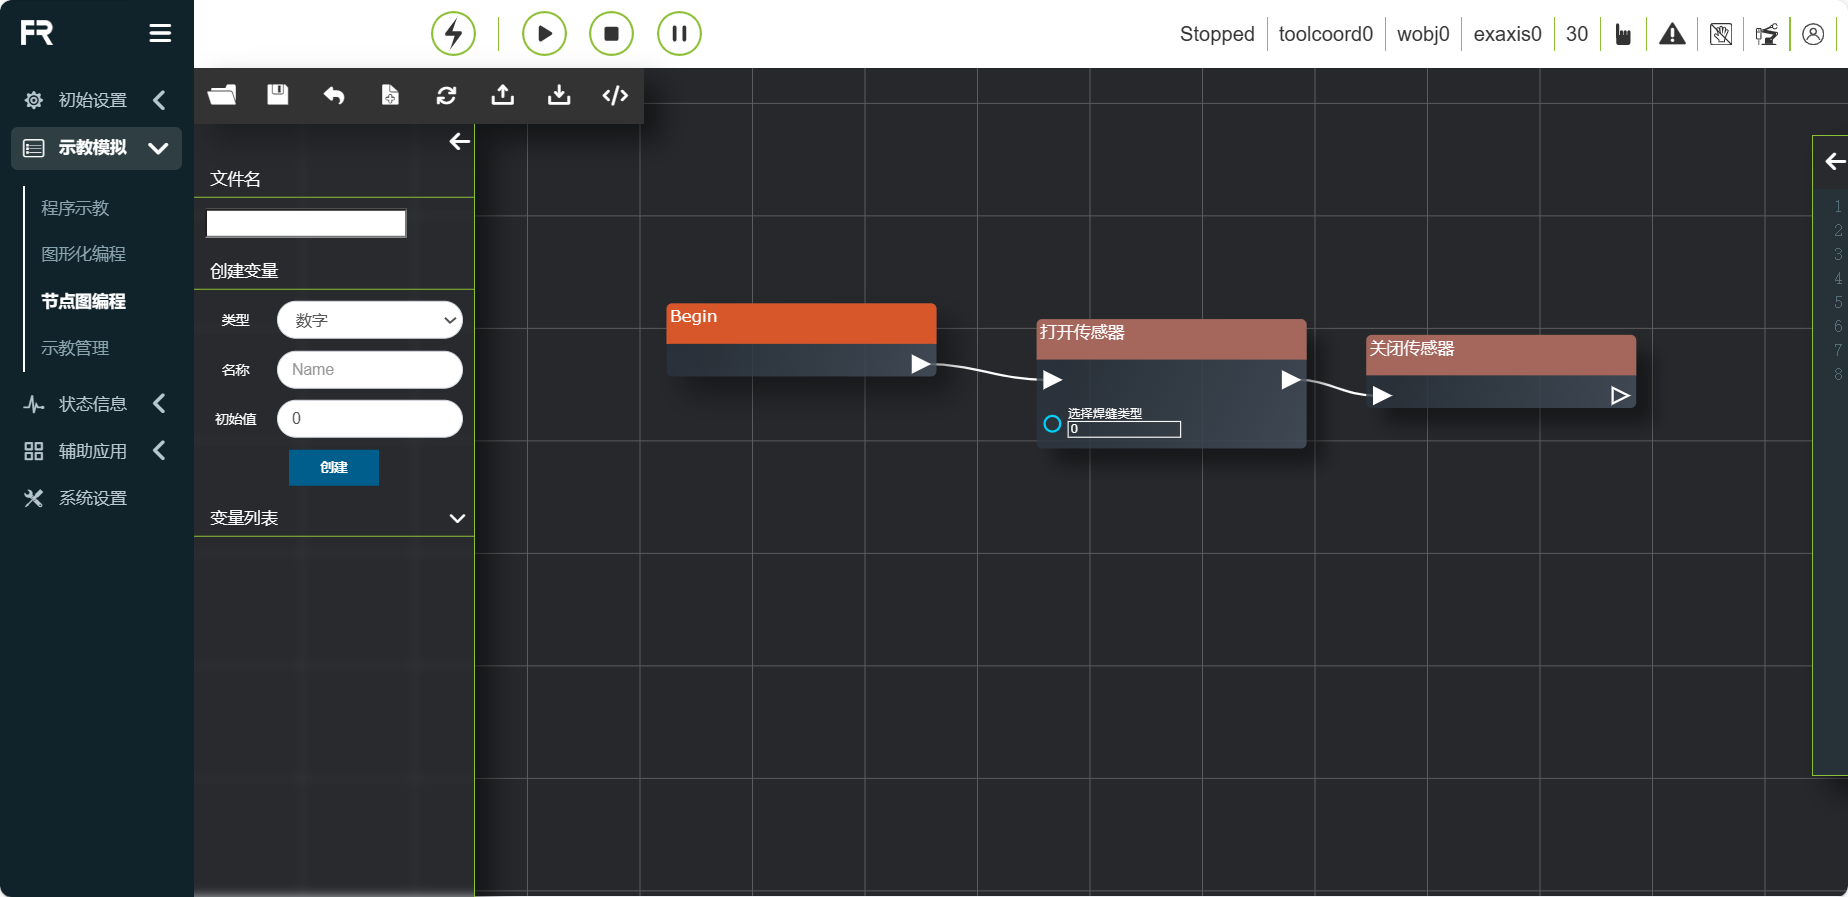
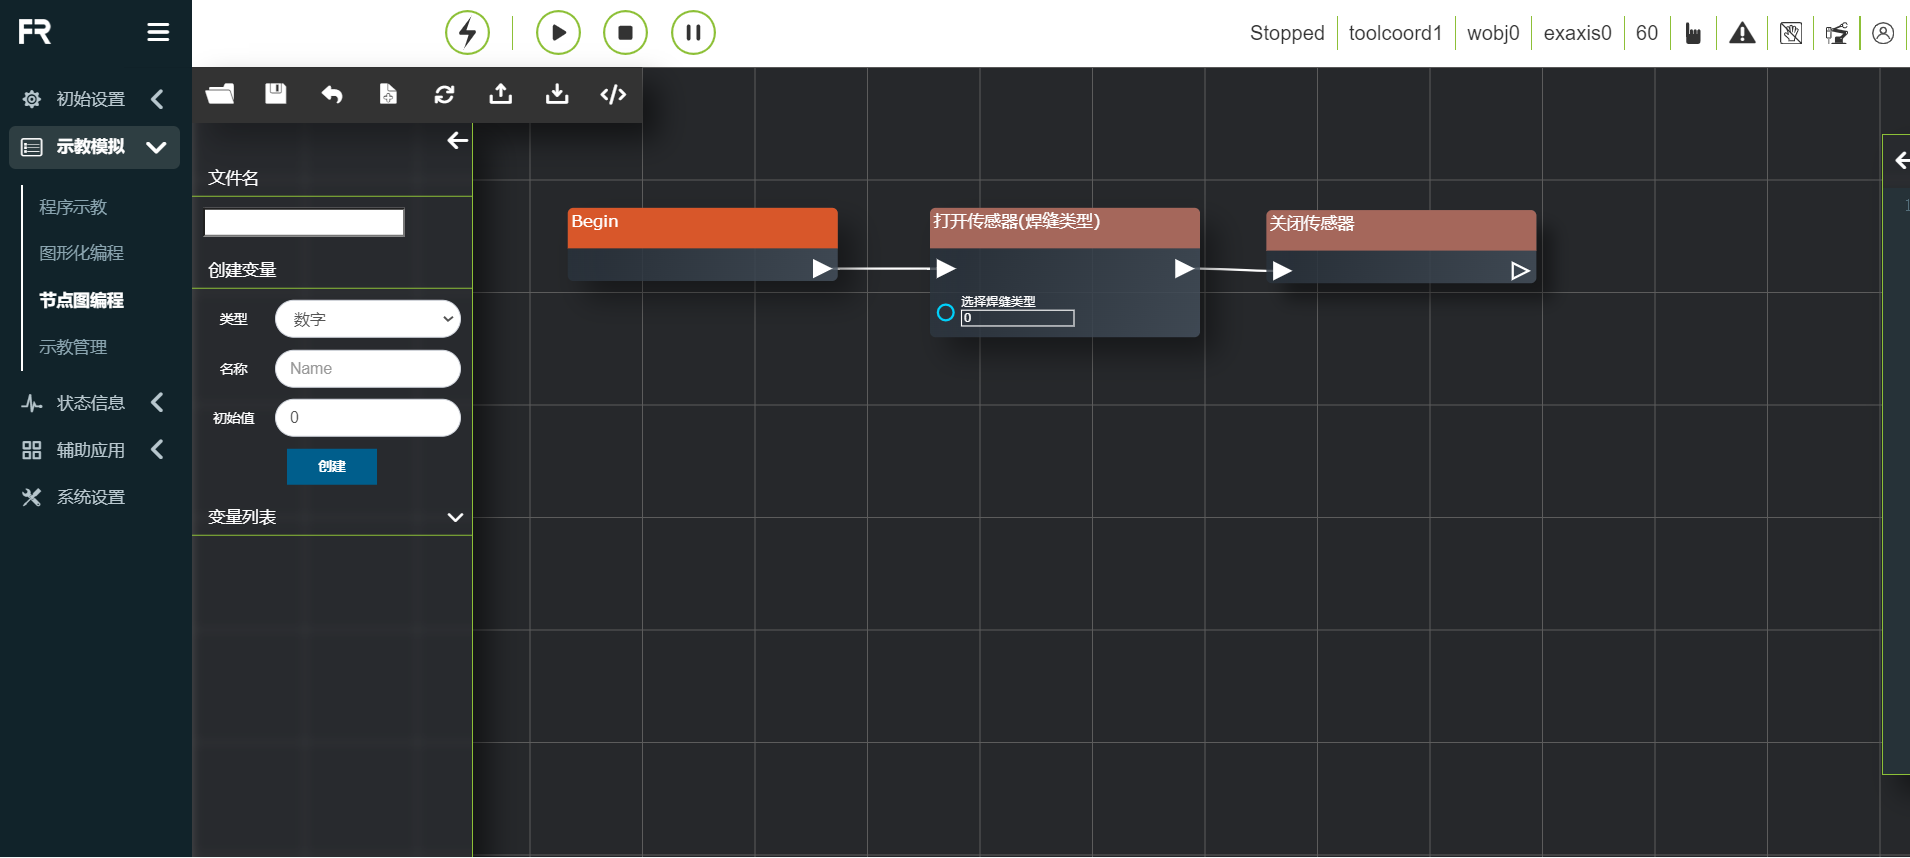
V3.7.0

diff --git a/source/CobotsManual/robot_peripherals.rst b/source/CobotsManual/robot_peripherals.rst
@@ -281,7 +281,11 @@
 传感器外设配置步骤
 ~~~~~~~~~~~~~~~~~~~~
 
-**Step1**：在用户外设配置界面中选择“传感器配置”按钮，本小节以机器人末端为例说明，用户首先对最大差值进行设置，传感器扫描偏差点数最大差值建议默认设置为4，数据处理根据实际使用场景选择原始数据或者YZ数据。控制器IP默认为192.168.57.2，传感器IP配置为同一网段即可，端口为5020，采样周期建议值25，通信协议目前适配为睿牛通信协议，加载对应协议即可。加载完成后，可通过“打开传感器”和“关闭传感器”按键测试传感器。
+**Step1**：在用户外设配置界面中选择“传感器配置”按钮，本小节以机器人末端为例说明。
+
+- 用户首先对最大差值进行设置，传感器扫描偏差点数最大差值建议默认设置为4，数据处理根据实际使用场景选择原始数据或者YZ数据。
+- 控制器IP默认为192.168.57.2，传感器IP配置为同一网段即可，端口为5020，采样周期建议值25，通信协议目前适配为睿牛、创想和全视的通信协议，加载对应协议即可。
+- 加载完成后，可通过“打开传感器”和“关闭传感器”按键测试传感器。
 
 .. figure:: robot_peripherals/011.png
    :align: center
@@ -295,7 +299,13 @@
 
 **Step2**：标定传感器参考点。
 
-在工具坐标系设置功能中，我们标定传感器类型工具，使用六点法配置传感器坐标系。在机器人工作空间中选择一个固定的点，将传感器中心点从三个不同的角度移至所选点上，分别设置点1，2，3。将传感器中心点垂直移至所选点正上方，记录点4。将传感器中心点由固定点移至传感器坐标系的X轴方向上一点，设置点5。回到固定点，垂直向上移动，将传感器中心点由固定点移至传感器坐标系的Z轴方向上一点，设置为点6。点击计算，得到传感器工具的位姿，点击应用，即可完成。
+在工具坐标系设置功能中，我们标定传感器类型工具，使用六点法配置传感器坐标系。
+
+- 在机器人工作空间中选择一个固定的点，将传感器中心点从三个不同的角度移至所选点上，分别设置点1，2，3。
+- 将传感器中心点垂直移至所选点正上方，记录点4。
+- 将传感器中心点由固定点移至传感器坐标系的X轴方向上一点，设置点5。
+- 回到固定点，垂直向上移动，将传感器中心点由固定点移至传感器坐标系的Z轴方向上一点，设置为点6。
+- 点击计算，得到传感器工具的位姿，点击应用，即可完成。如不想应用结果，点击“取消”按钮重新标定。
 
 .. figure:: robot_peripherals/012.png
    :align: center
@@ -303,7 +313,17 @@
 
 .. centered:: 图表 5.4‑2 参考点配置-六点法
 
-**八点法**：在工具坐标系设置功能中，我们标定传感器类型工具，使用八点法配置传感器坐标系，选择八点法，移动传感器激光线使其与标定板上的标定线重合，尽量使得传感器与标定线保持较近距离且识别到标定点，记录点1，移动-y/+y方向20mm左右,调整机器人使激光识别到标定点，记录点2，移动-x/+x方向20mm左右，调整机器人使激光识别到标定点，记录点3，移动-y/+y方向20mm左右，调整机器人使激光识别到标定点，记录点4，移动-rx方向5mm左右，调整机器人使激光识别到标定点，记录点5。移动-ry方向5mm左右，调整机器人使激光识别到标定点，记录点6，移动-rz方向5mm左右，调整机器人使传感器识别到标定点，记录点7，移动-rz方向5mm左右，调整机器人使激光识别到标定点，记录点8。点击计算，得到传感器位姿，点击应用，即可完成。
+**八点法**：在工具坐标系设置功能中，我们标定传感器类型工具，使用八点法配置传感器坐标系，选择八点法。
+
+- 移动传感器激光线使其与标定板上的标定线重合，尽量使得传感器与标定线保持较近距离且识别到标定点，记录点1；
+- 移动-y/+y方向20mm左右,调整机器人使激光识别到标定点，记录点2；
+- 移动-x/+x方向20mm左右，调整机器人使激光识别到标定点，记录点3；
+- 移动-y/+y方向20mm左右，调整机器人使激光识别到标定点，记录点4；
+- 移动-rx方向5mm左右，调整机器人使激光识别到标定点，记录点5；
+- 移动-ry方向5mm左右，调整机器人使激光识别到标定点，记录点6；
+- 移动-rz方向5mm左右，调整机器人使传感器识别到标定点，记录点7；
+- 移动-rz方向5mm左右，调整机器人使激光识别到标定点，记录点8；
+- 点击计算，得到传感器位姿，点击应用，即可完成。如不想应用结果，点击“取消”按钮重新标定。
 
 .. figure:: robot_peripherals/013.png
    :align: center
@@ -311,13 +331,29 @@
 
 .. centered:: 图表 5.4‑3 参考点配置-八点法
 
-**五点法**：在工具坐标系设置功能中，我们标定传感器类型工具，使用五点法配置传感器坐标系，首先确定一个固定点，将工具末端对准该点，记录点1，接着调整机器人姿态，使得激光识别到记录的固定点，分别记录点2至点5，注意姿态变化需要尽可能大。点击计算，得到传感器位姿，点击应用，即可完成。
+**五点法**：在工具坐标系设置功能中，我们标定传感器类型工具，使用五点法配置传感器坐标系。
+
+- 首先确定一个固定点，将工具末端对准该点，记录点1，标定成功后记录当前点位的传感器输出值;
+- 接着调整机器人姿态，使得激光识别到记录的固定点，分别记录点2至点5，注意姿态变化需要尽可能大;
+- 点击计算，得到传感器位姿和精度，根据精度觉得是否应用。如需应用结果，点击“应用”按钮，即可完成。如觉得精度不符合预期，点击“取消”按钮重新标定。
 
 .. figure:: robot_peripherals/014.png
    :align: center
    :width: 3in
 
 .. centered:: 图表 5.4‑4 参考点配置-五点法
+
+.. figure:: robot_peripherals/071.png
+   :align: center
+   :width: 3in
+
+.. centered:: 图表 5.4‑5 五点法-传感器输出值
+
+.. figure:: robot_peripherals/072.png
+   :align: center
+   :width: 3in
+
+.. centered:: 图表 5.4‑6 五点法-精度
 
 激光传感器跟踪功能
 ~~~~~~~~~~~~~~~~~~~

diff --git a/source/CobotsManual/node_editor_software.rst b/source/CobotsManual/node_editor_software.rst
@@ -308,25 +308,6 @@ While指令
 
 .. important:: 变量命名必须为定义过的名称。
 
-调用子程序指令
------------------
-
-点击“调用子程序”指令节点,进入节点图编辑界面
-
-该指令为暂停指令，在程序中插入该指令，当程序执行到该指令时，机器人会处于暂停状态，若想继续运行，点击控制区“暂停/恢复”按键即可。
-
-“调用子程序”指令节点,参数：
-
-- dofile文件：创建生成的文件名
-- 第几层调用：第一层/第二层
-- id编号：所属层级对应位置id
-
-.. image:: node_editor_software/009.png
-   :width: 6in
-   :align: center
-
-.. centered:: 图表 6.2.12 “调用子程序”指令节点界面
-
 点到点指令
 -----------------
 
@@ -347,7 +328,7 @@ While指令
    :width: 6in
    :align: center
 
-.. centered:: 图表 6.2.13 “点到点”指令节点界面
+.. centered:: 图表 6.2.12 “点到点”指令节点界面
 
 直线指令
 -----------------
@@ -362,17 +343,40 @@ While指令
 - 调试速度(%)：0 ~ 100
 - 停止：false/true，选择true时，平滑过渡参数值不生效
 - 平滑过渡(mm)：平滑过渡半径 0 ~ 1000
-- 是否偏移： 否/基坐标偏移/工具坐标偏移 选择否时，dx~drz参数值不生效
 - 是否寻位：false/true
 - 寻位点变量：REF0~99/RES0~99，是否寻位选择false时，参数不生效；
-- 焊缝缓存数据选择：执行规划数据/执行记录数据，选择点名称为“seamPos”时，参数生效，否则不生效；
-- 板材类型：波纹板/瓦楞板/围栏板/油桶/波纹甲壳钢，选择点名称为“seamPos”时，参数生效，否则不生效；
+- 是否偏移： 否/基坐标偏移/工具坐标偏移 选择否时，dx~drz参数值不生效
+- dx~drz：偏移量。
 
 .. image:: node_editor_software/011.png
    :width: 6in
    :align: center
 
-.. centered:: 图表 6.2.14 “直线”指令节点界面
+.. centered:: 图表 6.2.13 “直线”指令节点界面
+
+直线(seamPos)指令
+--------------------
+
+点击“直线(seamPos)”指令节点,进入节点图编辑界面
+
+该指令功能应用于焊接场景中使用激光传感器。
+
+“直线(seamPos)”指令节点,参数：
+
+- 点名称：示教点位
+- 调试速度(%)：0 ~ 100
+- 停止：false/true，选择true时，平滑过渡参数值不生效
+- 平滑过渡(mm)：平滑过渡半径 0 ~ 1000
+- 焊缝缓存数据选择：执行规划数据/执行记录数据；
+- 板材类型：波纹板/瓦楞板/围栏板/油桶/波纹甲壳钢；
+- 是否偏移： 否/基坐标偏移/工具坐标偏移/激光原始数据偏移 选择否时，dx~drz参数值不生效
+- dx~drz：偏移量
+
+.. image:: node_editor_software/134.png
+   :width: 6in
+   :align: center
+
+.. centered:: 图表 6.2.14 “直线(seamPos)”指令节点界面
 
 圆弧指令
 -----------------
@@ -1403,7 +1407,15 @@ Aux-IO是机器人与PLC通讯控制外部扩展IO的指令功能，需要机器
    :width: 6in
    :align: center
 
-.. centered:: 图表 6.2.85 “打开/关闭传感器”指令节点界面
+.. centered:: 图表 6.2.85-1 “打开/关闭传感器”指令节点界面——焊缝类型
+
+- 选择任务号：0 ~ 255
+  
+.. image:: node_editor_software/135.png
+   :width: 6in
+   :align: center
+
+.. centered:: 图表 6.2.85-2 “打开/关闭传感器”指令节点界面——任务号
 
 2.“加载/卸载传感器”指令节点，参数
 
